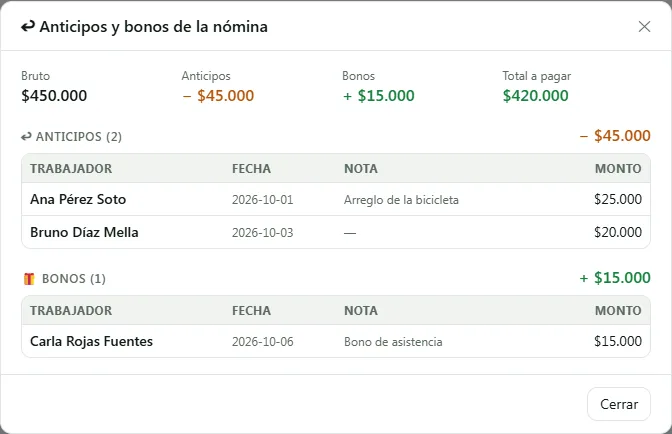
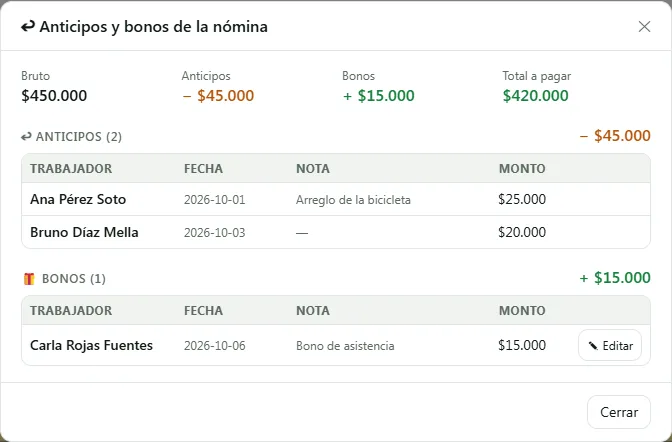
bonusEditHelpGuide

diff --git a/src/screens/help/guides.test.js b/src/screens/help/guides.test.js
@@ -84,6 +84,8 @@ describe("preguntas típicas", () => {
     ["qué significa parcial", "anticipos-y-bonos#despues-de-la-nomina"],
     ["el anticipo es más grande que lo que gana", "anticipos-y-bonos#como-los-aplica-la-nomina"],
     ["pagar un bono a un trabajador", "anticipos-y-bonos#anotar-un-bono"],
+    ["cambiar el monto de un bono en la nómina", "anticipos-y-bonos#editar-un-bono-que-ya-aplico-la-nomina"],
+    ["me equivoqué en el bono y ya está en la nómina", "anticipos-y-bonos#editar-un-bono-que-ya-aplico-la-nomina"],
     ["cuánto le cobro al cliente", "resumen-del-ciclo#para-cobrar-las-tarifas"],
     ["agregar un día al cobro", "resumen-del-ciclo#ajustar-un-dia-o-agregar-uno"],
     ["cobrar con iva", "resumen-del-ciclo#iva-descuento-y-columnas"],

diff --git a/src/screens/help/guides/anticipos-y-bonos.md b/src/screens/help/guides/anticipos-y-bonos.md
@@ -65,15 +65,35 @@ Al armar una nómina, TeRRa busca los anticipos y bonos pendientes de cada perso
 
 - Si la nómina se elimina, o se saca a la persona, el anticipo vuelve a quedar pendiente como estaba. Ver la guía [Corregir una nómina](/ayuda/corregir-nomina#que-pasa-con-los-anticipos-y-bonos).
 
+## Editar un bono que ya aplicó la nómina
+<!-- preguntas: cambiar el monto de un bono en la nómina; me equivoqué en el bono y ya está en la nómina; corregir un bono aplicado; editar la nota del bono; el bono era otro monto -->
+
+Un bono que ya está en una nómina pendiente se edita desde la nómina, sin sacar a la persona:
+
+1. En el detalle de la nómina, toca **📋 Ver anticipos y bonos** y, en el bono, **✎ Editar**. También está en el detalle de pago de la persona, al abrir su fila: **✎ Editar bono**.
+2. Escribe el monto o la nota nuevos. Abajo se ve cómo quedan el bono, los anticipos y el líquido, antes y después.
+3. Toca **Guardar**. Mientras guarda, una barra muestra en qué va.
+
+![Editar un bono de la nómina](help/anticipos-y-bonos/07-editar-bono.webp)
+
+El bono queda como si hubiera sido así desde el principio, y la nómina le paga el monto nuevo:
+
+- **Si el bono sube**, sube lo que cobra la persona, y nada más.
+- **Si el bono baja**, baja lo que cobra. Si tenía un anticipo que ya no cabe entero, se descuenta lo que alcanza y el resto vuelve al anticipo, que queda **Parcial** para la próxima nómina.
+- **Si solo cambia la nota**, la nómina queda igual.
+
+Con las transferencias de la nómina ya marcadas, solo se edita el bono de quien cobra en efectivo. Si ya cobró, TeRRa avisa que la diferencia se arregla en la mano.
+
 ## Corregir o eliminar un anticipo
 <!-- preguntas: cómo corrijo un anticipo; eliminar un anticipo; perdonar el saldo de un anticipo; me equivoqué de monto en el anticipo -->
 
 - **Pendiente**: se edita y se elimina con **Editar** y **Eliminar**.
 - **Parcial**: no se elimina, porque ya tiene pagos. Con **Editar** se puede bajar el monto hasta lo ya pagado, para dar por cerrado el resto.
-- **Aplicado**: ya no se edita ni se elimina.
+- **Aplicado**: ya no se edita ni se elimina aquí. Un bono aplicado se edita desde su nómina: ver [Editar un bono que ya aplicó la nómina](/ayuda/anticipos-y-bonos#editar-un-bono-que-ya-aplico-la-nomina).
 
 ## Si algo no funciona
 <!-- preguntas: la nómina no descontó el anticipo; no aparece el anticipo en la nómina; no puedo eliminar un anticipo -->
 
 - **La nómina no lo descontó**: la persona no cobró nada en esa nómina, o la cuota se desmarcó al guardarla. Sigue pendiente para la próxima.
 - **No se puede eliminar**: tiene pagos aplicados (está parcial). Usa **Editar** para cerrar el saldo.
+- **Un bono de la nómina no tiene ✎ Editar**: la nómina está pagada, o ya se marcaron las transferencias y la persona cobra por banco.

diff --git a/src/screens/help/guides/corregir-nomina.md b/src/screens/help/guides/corregir-nomina.md
@@ -67,6 +67,7 @@ Tócala y confirma con **Sacar**. Mientras la saca, una barra muestra en qué va
 - Al agregarle días a alguien, se le descuentan los anticipos pendientes que esta nómina todavía no le tocaba. Lo que ya descuenta de un anticipo no crece.
 - Quien entra a la nómina con un ciclo o una labor trae sus anticipos y bonos pendientes, como al generarla.
 - Quien sale de la nómina recupera todos sus anticipos y bonos de esta nómina.
+- Un bono que ya aplicó la nómina se edita (monto y nota) sin sacar a la persona: ver [Editar un bono que ya aplicó la nómina](/ayuda/anticipos-y-bonos#editar-un-bono-que-ya-aplico-la-nomina).
 
 ## Cambiar los nombres de los ciclos en el resumen
 <!-- preguntas: cambiar el nombre del ciclo en la nómina; encabezados del resumen; renombrar el ciclo solo en la nómina -->
